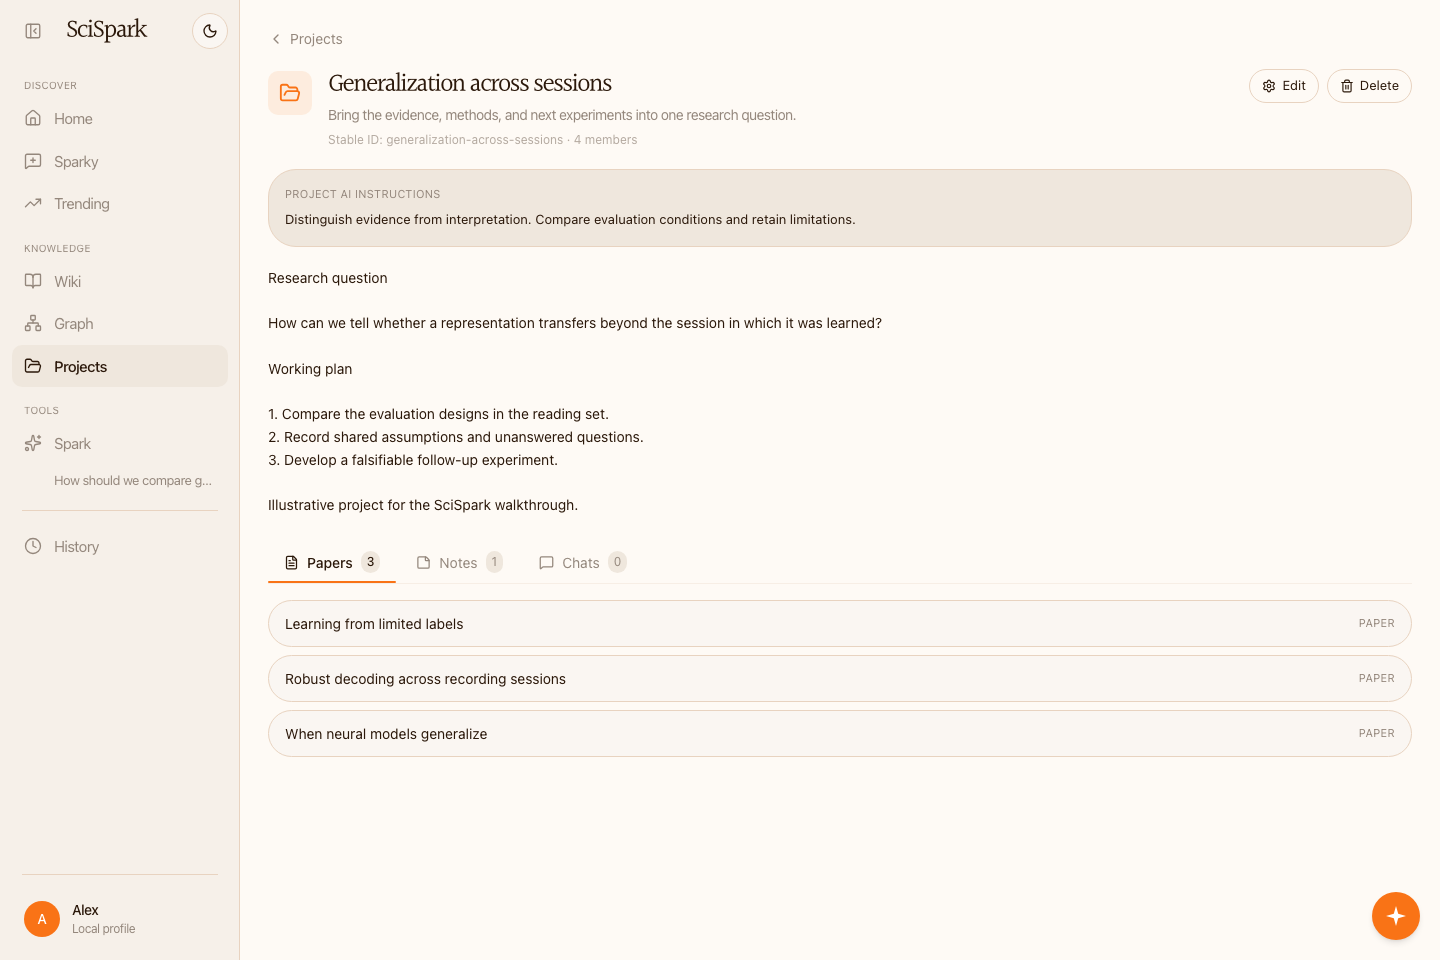
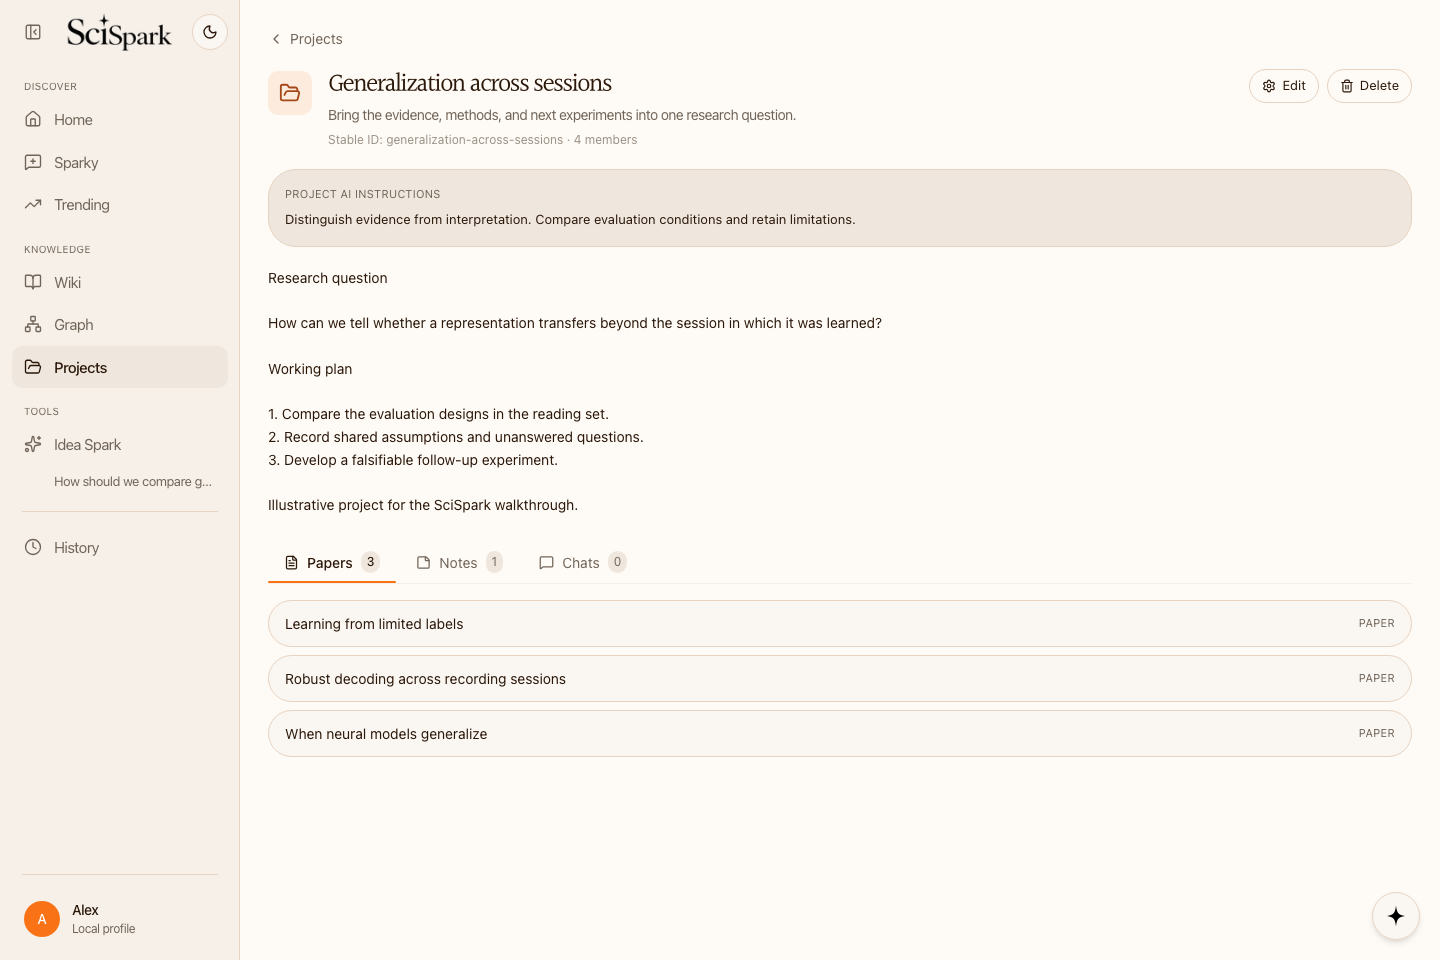
docs: refresh README branding and product screenshots

diff --git a/e2e/readme-showcase.spec.ts b/e2e/readme-showcase.spec.ts
@@ -108,6 +108,18 @@ test("capture README product showcase with illustrative data", async ({ page, re
   await page.goto("/")
   await expect(page.getByRole("heading", { name: titles[0], exact: true })).toBeVisible()
   await capture("feed")
+  await page.getByRole("button", { name: "Open Sparky chat", exact: true }).click()
+  await expect(page.getByRole("heading", { name: "What are you exploring?", exact: true })).toBeVisible()
+  await capture("quick-chat")
+  await page.goto("/chat")
+  await expect(page.getByRole("heading", { name: "What would you like to explore?", exact: true })).toBeVisible()
+  await capture("sparky")
+  await request.put("/api/settings", { data: { ui: { theme: "dark" } } })
+  await page.goto("/")
+  await expect(page.getByRole("heading", { name: titles[0], exact: true })).toBeVisible()
+  await expect(page.locator("html")).toHaveAttribute("data-theme", "dark")
+  await capture("feed-dark")
+  await request.put("/api/settings", { data: { ui: { theme: "light" } } })
   await page.goto("/wiki/concepts/generalization")
   await expect(page.getByRole("heading", { name: "Generalization", exact: true }).first()).toBeVisible()
   await page.getByRole("button", { name: "Preview", exact: true }).click()
@@ -123,7 +135,8 @@ test("capture README product showcase with illustrative data", async ({ page, re
   await page.goto("/spark")
   await expect(page.getByRole("heading", { name: "Idea gallery", exact: true })).toBeVisible()
   await expect(page.getByText("Test representation stability across sessions", { exact: true })).toBeVisible()
-  await page.locator("textarea").fill("Explore how learned representations transfer across recording sessions.")
+  await page.getByPlaceholder("What direction should Spark explore?", { exact: false }).fill("Explore how learned representations transfer across recording sessions.")
+  await page.getByRole("heading", { name: "Idea gallery", exact: true }).click()
   await capture("spark")
   await page.goto(`/chat/${review.sessionId}`)
   await page.getByRole("button", { name: "Open report", exact: true }).click()
@@ -131,4 +144,20 @@ test("capture README product showcase with illustrative data", async ({ page, re
   await expect(page.getByLabel("Report version")).toBeVisible()
   await expect(page.getByRole("heading", { name: "Comparing generalization across sessions", exact: true })).toBeVisible()
   await capture("deep-research")
+
+  // A documentation masthead, laid out in Chromium using the shipped artwork.
+  // The paper background keeps the black wordmark readable in either GitHub theme.
+  const logoUrl = new URL("/brand/scispark-wordmark-transparent.png", page.url()).href
+  await page.setViewportSize({ width: 1200, height: 300 })
+  await page.setContent(`<!doctype html><html><head><style>
+    * { box-sizing: border-box; } body { margin: 0; background: #fffaf5; color: #302015;
+      height: 300px; display: grid; place-content: center; justify-items: center; gap: 28px; }
+    .logo { width: 360px; height: 130px; position: relative; overflow: hidden; }
+    img { position: absolute; width: 377.89px; max-width: none; left: -8.95px; top: -31.53px; }
+    p { margin: 0; font: 16px Arial, sans-serif; letter-spacing: 3px; text-transform: uppercase; }
+    .rule { width: 48px; height: 3px; background: #e7803f; }
+  </style></head><body><div class="logo"><img src="${logoUrl}" alt="SciSpark"></div>
+    <p>Discover. Connect. Explore.</p><div class="rule"></div></body></html>`)
+  await page.locator("img").evaluate((img: HTMLImageElement) => img.decode())
+  await capture("brand-banner")
 })

diff --git a/README.md b/README.md
@@ -2,17 +2,17 @@
 
 <div align="center">
 
-# ✦ SciSpark
+<img src="docs/assets/readme/brand-banner.png" alt="SciSpark — Discover. Connect. Explore." width="100%">
 
 ### From the paper you discover to the question you ask next.
 
 A personal workspace to **discover papers, build knowledge, and explore ideas**.
 
-[![License: Apache-2.0](https://img.shields.io/badge/license-Apache--2.0-blue?style=flat-square)](LICENSE)
+[![License: Apache-2.0](https://img.shields.io/badge/license-Apache--2.0-716559?style=flat-square)](LICENSE)
 [![Status: Developer preview](https://img.shields.io/badge/status-developer_preview-EA6B28?style=flat-square)](#current-preview)
-[![Local-first](https://img.shields.io/badge/storage-local_first-496D59?style=flat-square)](#your-data-and-your-models)
+[![Local-first](https://img.shields.io/badge/storage-local_first-716559?style=flat-square)](#your-data-and-your-models)
 [![Bring your own AI](https://img.shields.io/badge/AI-bring_your_own_provider-84664C?style=flat-square)](#configure-your-workspace)
-[![TypeScript](https://img.shields.io/badge/built_with-TypeScript-3178C6?style=flat-square)](#under-the-hood)
+[![TypeScript](https://img.shields.io/badge/built_with-TypeScript-716559?style=flat-square)](#under-the-hood)
 
 **Discover with purpose. Read with context. Keep what you learn.**
 
@@ -37,9 +37,13 @@ those starting points while your research stays organized in a local vault.
 <sub>Real SciSpark screens captured in Chromium with an isolated example vault. Paper records, scores, notes, ideas, and report text are illustrative fixtures; these images are not live scientific results. No personal vault or paid model calls were used. <a href="docs/assets/readme/README.md">Capture details</a>.</sub>
 
 <details>
-<summary><b>Explore all six feature screens</b></summary>
+<summary><b>Explore Sparky and the full workspace</b></summary>
 <br>
 <table>
+<tr>
+<td width="50%"><a href="docs/assets/readme/sparky.png"><img src="docs/assets/readme/sparky.png" alt="Sparky start page with a centered input and research mode options" width="100%"></a><br><b>Start with a question</b><br>Discuss research, find papers, or begin a deep literature review.</td>
+<td width="50%"><a href="docs/assets/readme/quick-chat.png"><img src="docs/assets/readme/quick-chat.png" alt="Sparky floating chat open beside the paper feed" width="100%"></a><br><b>Sparky, close at hand</b><br>Open a small chat from the spark badge while browsing your workspace.</td>
+</tr>
 <tr>
 <td width="50%"><a href="docs/assets/readme/feed.png"><img src="docs/assets/readme/feed.png" alt="Personalized Feed with paper cards" width="100%"></a><br><b>Feed</b><br>Research interests, paper discovery, ranking explanations, and feedback.</td>
 <td width="50%"><a href="docs/assets/readme/deep-research.png"><img src="docs/assets/readme/deep-research.png" alt="Sparky conversation beside an illustrative deep-research report" width="100%"></a><br><b>Deep research</b><br>A question, a retained conversation, and a versioned report you can inspect.</td>
@@ -53,6 +57,11 @@ those starting points while your research stays organized in a local vault.
 <td width="50%"><a href="docs/assets/readme/spark.png"><img src="docs/assets/readme/spark.png" alt="Idea Spark controls and an illustrative idea gallery" width="100%"></a><br><b>Idea Spark</b><br>Develop ideas from the research you have already collected.</td>
 </tr>
 </table>
+
+**A quieter view after dark.** The same workspace, with theme-aware artwork, warm paper-card headers, and orange accents.
+
+<a href="docs/assets/readme/feed-dark.png"><img src="docs/assets/readme/feed-dark.png" alt="SciSpark Feed in dark mode with a white wordmark and warm orange paper-card headers" width="100%"></a>
+
 </details>
 
 ## Current preview

diff --git a/docs/assets/readme/README.md b/docs/assets/readme/README.md
@@ -5,8 +5,8 @@ fresh, disposable vault. They demonstrate the interface, not scientific results.
 
 ## Provenance
 
-- Captured September 9, 2026, with Chromium at **1440 × 960**, light theme and
-  reduced motion, against application source at commit `893e8c5`.
+- Captured September 9, 2026, with Chromium at **1440 × 960**, light and dark themes and
+  reduced motion, against application source at commit `908fa7c`.
 - All paper records, research notes, project content, ideas, relevance assessments,
   and review text are fixtures. No private research vault was used.
 - Feed runs through the real workflow with deterministic mock model responses and
@@ -19,6 +19,10 @@ fresh, disposable vault. They demonstrate the interface, not scientific results.
 
 | Image | View |
 |---|---|
+| [brand-banner.png](brand-banner.png) | Documentation masthead using the shipped transparent wordmark on a paper-colored surface; 1200 × 300. |
+| [sparky.png](sparky.png) | Sparky start page with composer and research modes. |
+| [quick-chat.png](quick-chat.png) | Floating Sparky chat opened from the Feed. |
+| [feed-dark.png](feed-dark.png) | Feed in dark mode. |
 | [feed.png](feed.png) | Personalized Feed with six illustrative papers. |
 | [deep-research.png](deep-research.png) | Sparky conversation and an example report. |
 | [wiki.png](wiki.png) | Rendered concept page with research questions and links. |
@@ -37,7 +41,13 @@ SCISPARK_CAPTURE_README=1 SCISPARK_SCHEDULER=off npm run e2e -- e2e/readme-showc
 The [capture script](../../../e2e/readme-showcase.spec.ts) is opt-in and skipped
 in ordinary E2E runs. Use `npm run e2e` so the harness provisions and cleans up
 the temporary vault and local mock services. Do not run it against a personal
-vault. The command replaces the six images in this directory.
+vault. The command replaces the nine product screenshots and the brand masthead in this directory.
+The masthead is a browser-rendered documentation layout, not an application screen;
+its wordmark is the existing `public/brand/scispark-wordmark-transparent.png` artwork.
 
 After capture, inspect each image for loaded content, readable text, and accurate
 feature state. Update the date and application revision above when recapturing.
+
+For this refresh, the existing production build was reused with
+`SCISPARK_E2E_PRODUCTION_DIST_DIR=.next-profile-menu-clip` added to the command.
+Omit that variable to capture current source through the default development harness.
